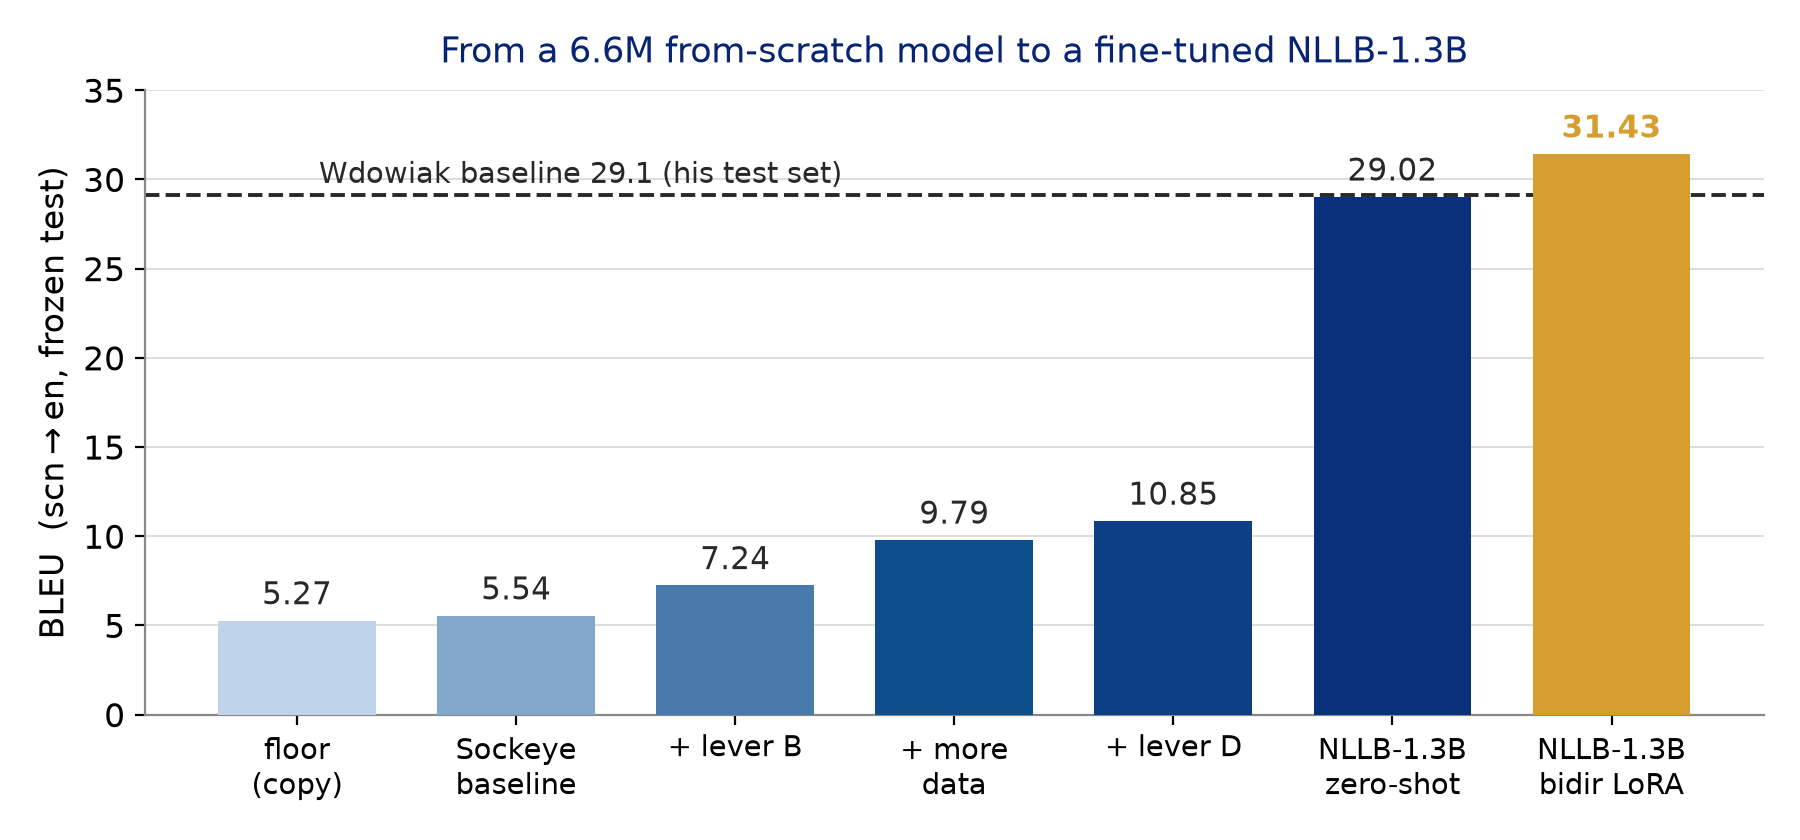
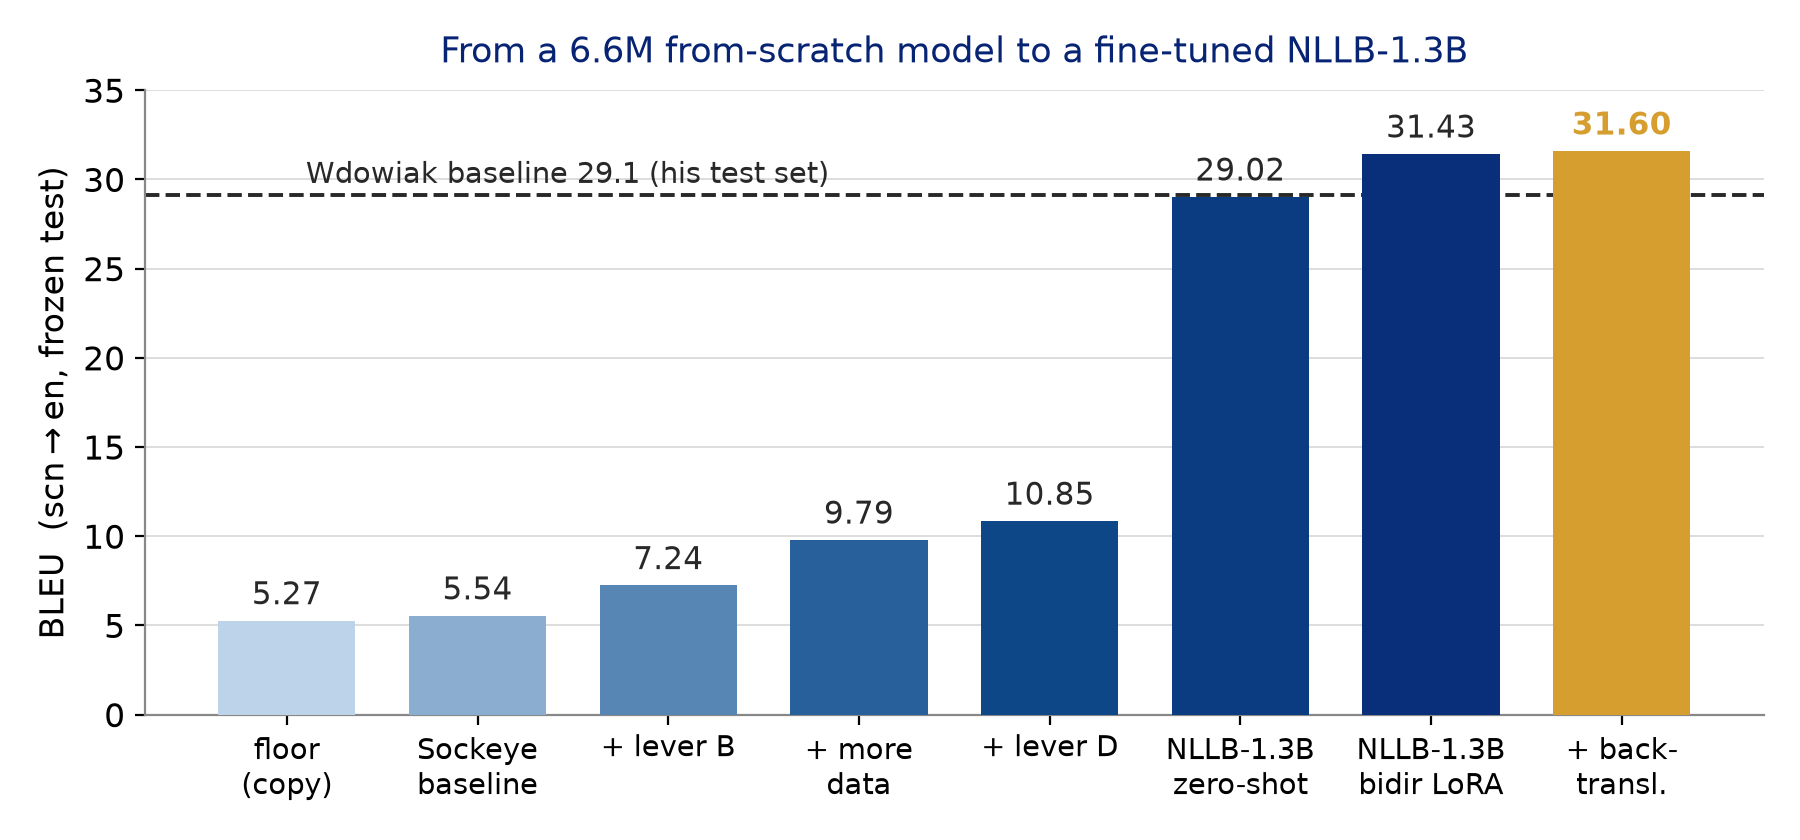
Integrate back-translation (+0.17 -> 31.6, data-limited at 7.6k vs ~550k); all method levers tested, residual is data

diff --git a/docs/paper/sicilian-nmt.tex b/docs/paper/sicilian-nmt.tex
@@ -204,7 +204,8 @@ Sockeye baseline & 5.54 & 28.28 \\
 \;+ lever D (lemma source factors) & 10.85 & 35.22 \\
 NLLB-200 1.3B, zero-shot (raw) & 29.02 & 55.23 \\
 NLLB-200 1.3B, LoRA fine-tuned, scn$\rightarrow$en only & 31.16 & 56.79 \\
-NLLB-200 1.3B, LoRA \emph{bidirectional} & \textbf{31.43} & \textbf{56.94} \\
+NLLB-200 1.3B, LoRA \emph{bidirectional} & 31.43 & 56.94 \\
+\;+ back-translation (7.5k synthetic) & \textbf{31.60} & \textbf{57.21} \\
 \bottomrule
 \end{tabular}
 \end{table}
@@ -244,31 +245,32 @@ scn$\rightarrow$it & 42.20 / 59.04 & \textbf{43.47 / 59.79} \\
 \paragraph{Relation to the state of the art.}
 We do \emph{not} beat the state of the art. Wdowiak's \textbf{reverse-training} system reports,
 on his own in-domain hand-selected test set, En$\rightarrow$Sc/Sc$\rightarrow$En BLEU of
-45.1/48.6 and It$\rightarrow$Sc/Sc$\rightarrow$It of 61.4/62.9---well ahead of our 18.7/31.4 and
+45.1/48.6 and It$\rightarrow$Sc/Sc$\rightarrow$It of 61.4/62.9---well ahead of our 18.7/31.6 and
 27.0/43.5 on every direction (his earlier marks were 25.1/29.1 baseline, 35.0/36.8 augmented).
 The numbers are \emph{not} a head-to-head (different test sets), but the gap is too large to be
-explained by that alone: on Sc$\rightarrow$en we only clear his \emph{baseline} (31.4 vs 29.1),
+explained by that alone: on Sc$\rightarrow$en we only clear his \emph{baseline} (31.6 vs 29.1),
 on a harder test, and trail elsewhere. Crucially, his reverse-training builds a \emph{custom
 pretrained model} from tens of millions of pairs (forward-translation, then back-translation,
 in three stages) before fine-tuning on \emph{Arba Sicula}---a pipeline infeasible to reproduce
 on a single GPU. NLLB-200, however, already provides that massive multilingual pretraining: our
-fine-tune is the analogue of his stage-3. Adding back-translation and multilingual training (in
-progress) closes the remaining \emph{method} gap; the likely \emph{residual} is then
-\textbf{data}---his hand-curated, standardised corpus versus our automatic extraction---which
-argues for combining the two rather than competing.
+fine-tune is the analogue of his stage-3. We applied the feasible parts of his recipe on top of
+NLLB and each adds little: the multilingual Italian bridge, orthographic normalisation
+($+0.4$ BLEU), and back-translation ($+0.17$, capped by our 7.6k in-domain monolingual pool
+versus his $\sim$550k). The \emph{method} gap is therefore largely closed; the residual is
+\textbf{data}---his hand-curated, standardised corpus, far more back-translation, and an
+in-domain test set---which argues for combining his corpus with our pipeline rather than
+competing.
 
 \section{Conclusion and Future Work}
 We presented a reproducible, Perl-free path from Arba Sicula PDFs to a Sicilian--English NMT
 system: an automated extraction-and-alignment pipeline, the paper's tokenization and desinence
 recipe with an added linguistic-feature lever, and NLLB-200 adapted with LoRA. On our harder
-literary test set the best model reaches 31.43 BLEU (scn$\rightarrow$en), above the published
-baseline but well below Wdowiak's reverse-training state of the art. Ongoing work applies the
-feasible parts of his recipe on top of NLLB---\textbf{back-translation} from the in-domain
-monolingual English harvested from unaligned text, and \textbf{multilingual} Italian bridging
-through the it--scn data \citep{fan2020beyond}---to isolate how much of the gap is
-\emph{method} versus \emph{data}. If, with the method matched, our automatically-extracted
-corpus still trails his hand-curated one, the difference is the data: a concrete case for
-combining his corpus with our pipeline. We also release \textbf{serving} (a local web app and a
+literary test set the best model reaches 31.6 BLEU (scn$\rightarrow$en), above the published
+baseline but well below Wdowiak's reverse-training state of the art. Having applied the feasible
+parts of his recipe on top of NLLB---\textbf{multilingual} Italian bridging, orthographic
+\textbf{normalisation}, and \textbf{back-translation}---each for only a small gain, we conclude
+the residual is \emph{data}: his hand-curated corpus, far more back-translation, and an
+in-domain test set. This is a concrete case for combining his corpus with our pipeline. We also release \textbf{serving} (a local web app and a
 Telegram bot, a FastAPI service over the NLLB adapter). All code, the data pipeline and the
 evaluation harness are released for reproducibility.
 

diff --git a/docs/slides/sicilian-nmt-hlt.tex b/docs/slides/sicilian-nmt-hlt.tex
@@ -628,8 +628,11 @@
     \begin{column}{0.42\textwidth}
       \begin{itemize}
         \item Exactly the lever that took the original system from BLEU 29.1 to 36.8.
-        \item In-domain (literary) monolingual text $\Rightarrow$ matched to the test domain.
-        \item Synthetic pairs filtered by length ratio and deduped before training.
+        \item \textbf{Our result}: 7{,}498 synthetic pairs lift scn$\to$en only
+              $31.43\!\to\!\textbf{31.6}$ ($+0.17$).
+        \item \textbf{Why so small?} His gain came from \textbf{$\sim$550k} back-translations;
+              our in-domain pool is just \textbf{7.6k}. The lever is \emph{data-limited} ---
+              not a method failure but a \textbf{data} ceiling.
       \end{itemize}
     \end{column}
   \end{columns}
@@ -699,8 +702,8 @@
               (chrF $28.3\!\to\!35.2$).
         \item The pretrained model wins decisively: \textbf{+18 BLEU} zero-shot over the best
               from-scratch model.
-        \item LoRA fine-tuning adds \textbf{+2.3} on top, to \textbf{31.43} --- past the
-              published baseline on our harder test.
+        \item LoRA fine-tuning adds \textbf{+2.3} (to 31.43); back-translation a further
+              $+0.17$ to \textbf{31.6} --- past the published baseline on our harder test.
       \end{itemize}
     \end{column}
   \end{columns}
@@ -755,14 +758,17 @@
     \item A \textbf{linear path}, fully reproduced: automated PDF$\to$parallel-text pipeline
           $\to$ small high-dropout Transformer $\to$ linguistic levers (desinences, lemma
           factors) $\to$ \textbf{NLLB-200} with LoRA and a bidirectional fine-tune.
-    \item On our harder literary test set we reach \textbf{31.43} (scn$\to$en) from a 5.27
+    \item On our harder literary test set we reach \textbf{31.6} (scn$\to$en) from a 5.27
           floor --- above the published \emph{baseline}, though Wdowiak's full reverse-training
           system is well ahead on every direction.
-    \item \textbf{To close the method gap}: back-translation (in progress) and reverse-training
-          on top of NLLB. The likely \emph{residual} is then data quality --- his hand-curated
-          \emph{Arba Sicula} corpus vs our automatic extraction --- which motivates
-          \textbf{collaborating} rather than competing.
-    \item Also: Italian bridging (done) and serving as a web app + \textbf{Telegram bot}.
+    \item \textbf{Method levers, all tested on NLLB}: multilingual Italian bridge (done),
+          orthographic normalisation ($+0.4$), back-translation ($+0.17$, capped by our 7.6k
+          monolingual pool vs his $\sim$550k). Each helps little --- the gap is \emph{not}
+          method.
+    \item \textbf{So the residual is data}: his hand-curated \emph{Arba Sicula} corpus, far more
+          back-translation, and an in-domain test set --- a concrete case for
+          \textbf{collaborating} with the author rather than competing. Also: a web app +
+          \textbf{Telegram bot}.
   \end{itemize}
   \vfill
   {\scriptsize Code, data pipeline and reproducible evaluation: \texttt{github.com/dmeoli/SicilianNMT}.}

diff --git a/docs/slides/make_charts.py b/docs/slides/make_charts.py
@@ -25,8 +25,8 @@ blue_ramp = LinearSegmentedColormap.from_list("scn", ["#BcD3EA", BLUE, NAVY])
 
 def progression():
     labels = ["floor\n(copy)", "Sockeye\nbaseline", "+ lever B", "+ more\ndata",
-              "+ lever D", "NLLB-1.3B\nzero-shot", "NLLB-1.3B\nbidir LoRA"]
-    bleu = [5.27, 5.54, 7.24, 9.79, 10.85, 29.02, 31.43]
+              "+ lever D", "NLLB-1.3B\nzero-shot", "NLLB-1.3B\nbidir LoRA", "+ back-\ntransl."]
+    bleu = [5.27, 5.54, 7.24, 9.79, 10.85, 29.02, 31.43, 31.60]
     n = len(bleu)
     colors = [blue_ramp(i / (n - 1)) for i in range(n)]
     colors[-1] = GOLD                      # our best result pops in gold
@@ -115,7 +115,7 @@ def vs_sota():
     # ours is NLLB-1.3B+LoRA WITHOUT his full recipe yet (on OUR harder test).
     cats = ["Sc$\\to$En", "En$\\to$Sc", "It$\\to$Sc", "Sc$\\to$It"]
     his = [48.6, 45.1, 61.4, 62.9]     # reverse-training, stage-3 (his best)
-    ours = [31.43, 18.73, 26.97, 43.47]
+    ours = [31.60, 18.73, 26.97, 43.47]   # scn->en after back-translation
     x = range(len(cats))
     w = 0.38
     fig, ax = plt.subplots(figsize=(8.6, 4.4))

diff --git a/README.md b/README.md
@@ -64,7 +64,8 @@ training. See `experiments/baseline/README.md`.
 | NLLB-200 distilled-600M, LoRA fine-tuned † | 28.93 | 55.12 |
 | NLLB-200 1.3B, zero-shot † | 29.02 | 55.23 |
 | NLLB-200 1.3B, LoRA fine-tuned, scn→en only (27k) † | 31.16 | 56.79 |
-| NLLB-200 1.3B, LoRA **bidirectional** (27k) † | **31.43** | **56.94** |
+| NLLB-200 1.3B, LoRA **bidirectional** (27k) † | 31.43 | 56.94 |
+| \;+ back-translation (7.5k synthetic) † | **31.60** | **57.21** |
 
 Each Sockeye lever stacks (tokenization + desinences +1.7, more data +2.55: 5.54→9.79).
 The modern pretrained model wins decisively: NLLB-200 zero-shot scn→en 25.63 (600M) / 29.02
@@ -101,7 +102,7 @@ The SOTA is Wdowiak's **reverse-training** system, on his own in-domain test set
 | paper baseline | 25.1 | 29.1 | — | — |
 | + backtranslation + multilingual | 35.0 | 36.8 | 36.5 | 30.9 |
 | **reverse-training (his best)** | **45.1** | **48.6** | **61.4** | **62.9** |
-| **ours** (NLLB+LoRA, partial recipe) | 18.7 | 31.4 | 27.0 | 43.5 |
+| **ours** (NLLB+LoRA + back-transl.) | 18.7 | 31.6 | 27.0 | 43.5 |
 
 ⚠️ **Not a head-to-head** (different test sets), but the gap is too large to be that alone:
 we only clear his *baseline* on Sc→En, and trail on every other direction. His reverse-training